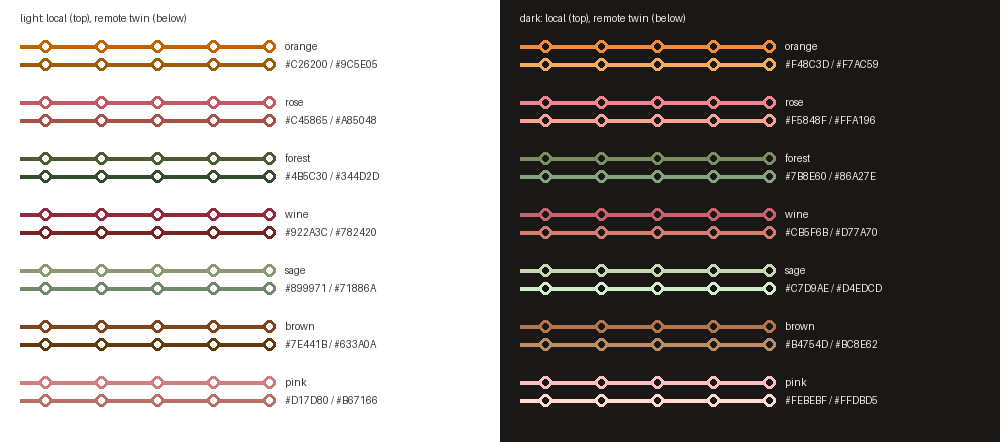
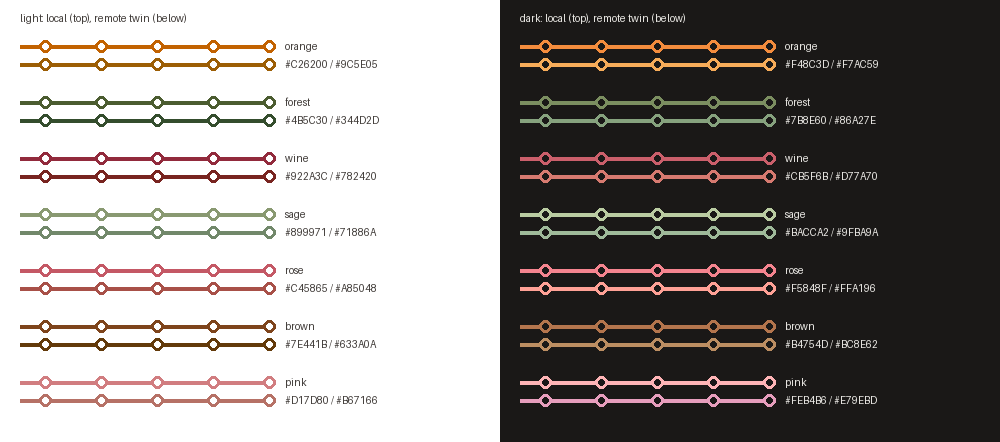
History map: stable colours, clearer pale lanes, ↑↓ labels
Checked live in VS Code with screenshot.py (open, ◀ ▶, Branches):

- A branch's colour family now comes from its name (FNV-1a hash, next
  free family on a clash), so it no longer changes between frames.
- The panel orders families so neighbours differ (rose and wine were
  side by side and looked alike).
- On dark backgrounds the pink and sage remote twins are darker, and
  pink's turns towards magenta: the old lighter twins looked like the
  protected colour. Protected lanes are drawn heavier as well.
- Lane labels say ↑3 ↓10 like the Unicode, so they fit without "...".
- The Unicode says "forked earlier" instead of "0 earlier".
- screenshot.py can click (click:X,Y).

diff --git a/editors/vscode/src/webview/main.ts b/editors/vscode/src/webview/main.ts
@@ -45,7 +45,7 @@ declare function acquireVsCodeApi(): { postMessage(message: unknown): void };
 
 const SVG = "http://www.w3.org/2000/svg";
 /** Lane colour families in brand.css, in the order `family` counts them. */
-const FAMILIES = ["orange", "rose", "forest", "wine", "sage", "brown", "pink"] as const;
+const FAMILIES = ["orange", "forest", "wine", "sage", "rose", "brown", "pink"] as const;
 const MAX_BRANCHES = 7;
 const RESIZE_DELAY_MS = 250;
 /** Page padding (both sides), the space between grid and labels, and the labels' width. */
@@ -305,9 +305,7 @@ function laneLabel(graph: Graph, lane: Lane, index: number, top: number): HTMLDi
   label.title = laneSummary(lane, graph);
   label.append(element("span", "lane-name", lane.name));
   const facts = [
-    lane.kind === "reference"
-      ? "base"
-      : `${String(lane.ahead)} ahead · ${String(lane.behind)} behind`,
+    lane.kind === "reference" ? "base" : `↑${String(lane.ahead)} ↓${String(lane.behind)}`,
   ];
   if (lane.merged) {
     facts.push("merged");

diff --git a/style/history.css b/style/history.css
@@ -109,35 +109,35 @@ body {
 }
 
 .family-1 {
-  --color: var(--lane-rose);
-}
-
-.family-1.remote {
-  --color: var(--lane-rose-remote);
-}
-
-.family-2 {
   --color: var(--lane-forest);
 }
 
-.family-2.remote {
+.family-1.remote {
   --color: var(--lane-forest-remote);
 }
 
-.family-3 {
+.family-2 {
   --color: var(--lane-wine);
 }
 
-.family-3.remote {
+.family-2.remote {
   --color: var(--lane-wine-remote);
 }
 
-.family-4 {
+.family-3 {
   --color: var(--lane-sage);
 }
 
-.family-4.remote {
+.family-3.remote {
   --color: var(--lane-sage-remote);
+}
+
+.family-4 {
+  --color: var(--lane-rose);
+}
+
+.family-4.remote {
+  --color: var(--lane-rose-remote);
 }
 
 .family-5 {
@@ -197,9 +197,19 @@ body {
   cursor: pointer;
 }
 
+/* Protected: the text colour, and heavier, so a pale lane can't be taken for it. */
+.protected .trace {
+  stroke-width: 3;
+}
+
 .lane.hot .trace,
 .lane.selected .trace {
   stroke-width: 3;
+}
+
+.protected.hot .trace,
+.protected.selected .trace {
+  stroke-width: 4;
 }
 
 .node {

diff --git a/style/brand.css b/style/brand.css
@@ -108,12 +108,12 @@ body.vscode-dark {
   --lane-forest-remote: #86a27e;
   --lane-wine: #cb5f6b;
   --lane-wine-remote: #d77a70;
-  --lane-sage: #c7d9ae;
-  --lane-sage-remote: #d4edcd;
+  --lane-sage: #bacca2;
+  --lane-sage-remote: #9fba9a;
   --lane-brown: #b4754d;
   --lane-brown-remote: #bc8e62;
-  --lane-pink: #febebf;
-  --lane-pink-remote: #ffdbd5;
+  --lane-pink: #feb4b6;
+  --lane-pink-remote: #e79ebd;
 }
 
 /* Text as typed: the fonts' contextual ligatures would draw -> as an arrow and >= as ≥, hiding

diff --git a/src/map.rs b/src/map.rs
@@ -887,6 +887,22 @@ fn place(l: &Layout, spans: &[Option<Span>], merges: &[Merge]) -> Vec<usize> {
     rows(&above, &below)
 }
 
+/// Colour families the renderers have; past them, family counts on (a second round).
+pub const FAMILIES: usize = 7;
+
+/// A family for `branch`: its own (from a hash of the name) if free, else the next free one.
+fn free_family(branch: &str, taken: &HashMap<String, usize>) -> usize {
+    // FNV-1a: stable across runs and platforms.
+    let hash = branch.bytes().fold(0xcbf2_9ce4_8422_2325_u64, |h, b| {
+        (h ^ u64::from(b)).wrapping_mul(0x0100_0000_01b3)
+    });
+    let own = (hash % FAMILIES as u64) as usize;
+    (0..)
+        .map(|i| (own + i) % FAMILIES + i / FAMILIES * FAMILIES)
+        .find(|f| !taken.values().any(|t| t == f))
+        .unwrap_or(own)
+}
+
 /// The rank of a branch: how much of its work is found in the target's.
 fn score(repo: &Path, base: &str, branch: &Branch, target: &Branch, threshold: f64) -> Option<f64> {
     let (a, _) = branch.main_ref();
@@ -1052,7 +1068,8 @@ pub fn map_document(repo: &Path, options: &Options) -> Result<MapDocument> {
         .filter_map(|(r, k)| k.map(|k| (k, r)))
         .collect();
 
-    // Colour families: reference, then units by first appearance in `order`, protected ones none.
+    // Colour families: from the branch name, so a branch keeps its colour from frame to frame;
+    // the next free one if taken. Protected lanes have none.
     let mut families: HashMap<String, usize> = HashMap::new();
     let mut lanes = Vec::new();
     for &k in &order {
@@ -1060,9 +1077,12 @@ pub fn map_document(repo: &Path, options: &Options) -> Result<MapDocument> {
         let s = spans[k].as_ref();
         let family = if d.protected {
             None
+        } else if let Some(&f) = families.get(&d.branch) {
+            Some(f)
         } else {
-            let next = families.len();
-            Some(*families.entry(d.branch.clone()).or_insert(next))
+            let f = free_family(&d.branch, &families);
+            families.insert(d.branch.clone(), f);
+            Some(f)
         };
         let anc = history.ancestors(d.tip);
         let ahead = (0..anc.len()).filter(|&i| anc[i] && !base_anc[i]).count();
@@ -1209,8 +1229,10 @@ fn state(lane: &Lane) -> String {
     if let Some(s) = lane.score {
         parts.push(format!("{:.0}% in target", s * 100.0));
     }
-    if let Some(n) = lane.before {
-        parts.push(format!("{n} earlier"));
+    match lane.before {
+        Some(0) => parts.push("forked earlier".to_owned()),
+        Some(n) => parts.push(format!("{n} earlier")),
+        None => {}
     }
     if lane.after {
         parts.push("more later".to_owned());

diff --git a/screenshot.py b/screenshot.py
@@ -5,11 +5,12 @@ and drives it over the Chrome DevTools Protocol: keys, text, screenshots. Standa
 
 Usage:
   uv run screenshot.py launch FOLDER [--ext DIR] [--port N] [--size WxH]
-  uv run screenshot.py keys KEY|text:TEXT|wait:SECONDS ... [--port N]
+  uv run screenshot.py keys KEY|text:TEXT|wait:SECONDS|click:X,Y ... [--port N]
   uv run screenshot.py shot OUT.png [--port N]
   uv run screenshot.py close [--port N]
 
-Keys are names like F1, Enter, Escape, Tab, ArrowDown. For example, open the History panel:
+Keys are names like F1, Enter, Escape, Tab, ArrowDown; click:X,Y clicks at window pixels (as
+in a shot). For example, open the History panel:
   uv run screenshot.py keys F1 "text:sundgren: Show History" Enter wait:1 "text:main" Enter
 """
 
@@ -213,6 +214,17 @@ def keys(port: int, items: list[str]) -> None:
             tools.call("Input.insertText", text=item.removeprefix("text:"))
         elif item.startswith("wait:"):
             time.sleep(float(item.removeprefix("wait:")))
+        elif item.startswith("click:"):
+            x, _, y = item.removeprefix("click:").partition(",")
+            for kind in ("mousePressed", "mouseReleased"):
+                tools.call(
+                    "Input.dispatchMouseEvent",
+                    type=kind,
+                    x=float(x),
+                    y=float(y),
+                    button="left",
+                    clickCount=1,
+                )
         elif item in KEYS:
             code, vk = KEYS[item]
             for kind in ("rawKeyDown", "keyUp"):
@@ -227,7 +239,9 @@ def keys(port: int, items: list[str]) -> None:
             if item == "Enter":
                 tools.call("Input.dispatchKeyEvent", type="char", text="\r")
         else:
-            raise SystemExit(f"unknown key {item!r}; use one of {', '.join(KEYS)}, text:, wait:")
+            raise SystemExit(
+                f"unknown key {item!r}; use one of {', '.join(KEYS)}, text:, wait:, click:"
+            )
         time.sleep(0.2)
     tools.ws.close()
 

diff --git a/notes/history-map.md b/notes/history-map.md
@@ -32,14 +32,19 @@ all branches stand against the main line.
   | rose   | `#C45865` / `#A85048` | `#F5848F` / `#FFA196` | rose          |
   | forest | `#4B5C30` / `#344D2D` | `#7B8E60` / `#86A27E` | moss, darker  |
   | wine   | `#922A3C` / `#782420` | `#CB5F6B` / `#D77A70` | rose, darker  |
-  | sage   | `#899971` / `#71886A` | `#C7D9AE` / `#D4EDCD` | sage          |
+  | sage   | `#899971` / `#71886A` | `#BACCA2` / `#9FBA9A` | sage          |
   | brown  | `#7E441B` / `#633A0A` | `#B4754D` / `#BC8E62` | brown         |
-  | pink   | `#D17D80` / `#B67166` | `#FEBEBF` / `#FFDBD5` | pink          |
+  | pink   | `#D17D80` / `#B67166` | `#FEB4B6` / `#E79EBD` | pink          |
 
   Method: OKLCH hue and chroma from the logo colour, lightness per theme until contrast holds;
   the twin turns the hue 12° and moves lightness one step. Gold, olive, moss and peach came out
   too close to others. Closest families: rose, wine and pink (OKLab 0.06–0.07). Above 7 branches,
   line style (dotted, double).
+  On dark backgrounds the pale families (sage, pink) have darker remote twins, and pink's turns
+  towards magenta, away from rose: lighter twins came out near the protected colour (the text
+  colour). Protected lanes are also drawn heavier. Families come from the branch name (a hash;
+  the next free one if taken), so a branch keeps its colour from frame to frame. The panel orders
+  them orange, forest, wine, sage, rose, brown, pink, so neighbours differ.
 - Branch selection: the same controls as Containment. Base = the reference line, viewed around
   its tip; target = a chosen branch, pinned; both are dropdowns. Candidates are the branches
   visible in the frame (a fork, merge or tip in it, or a lane through it), which can be
